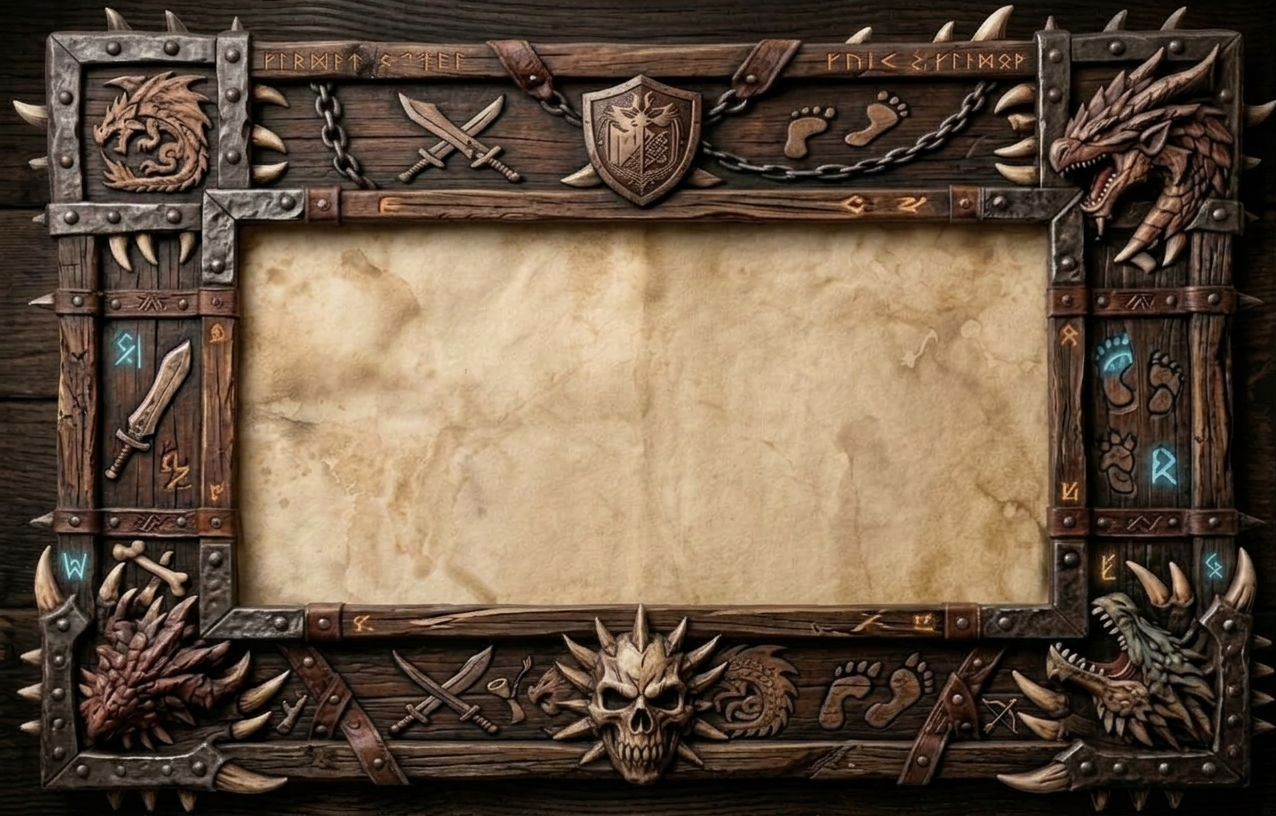
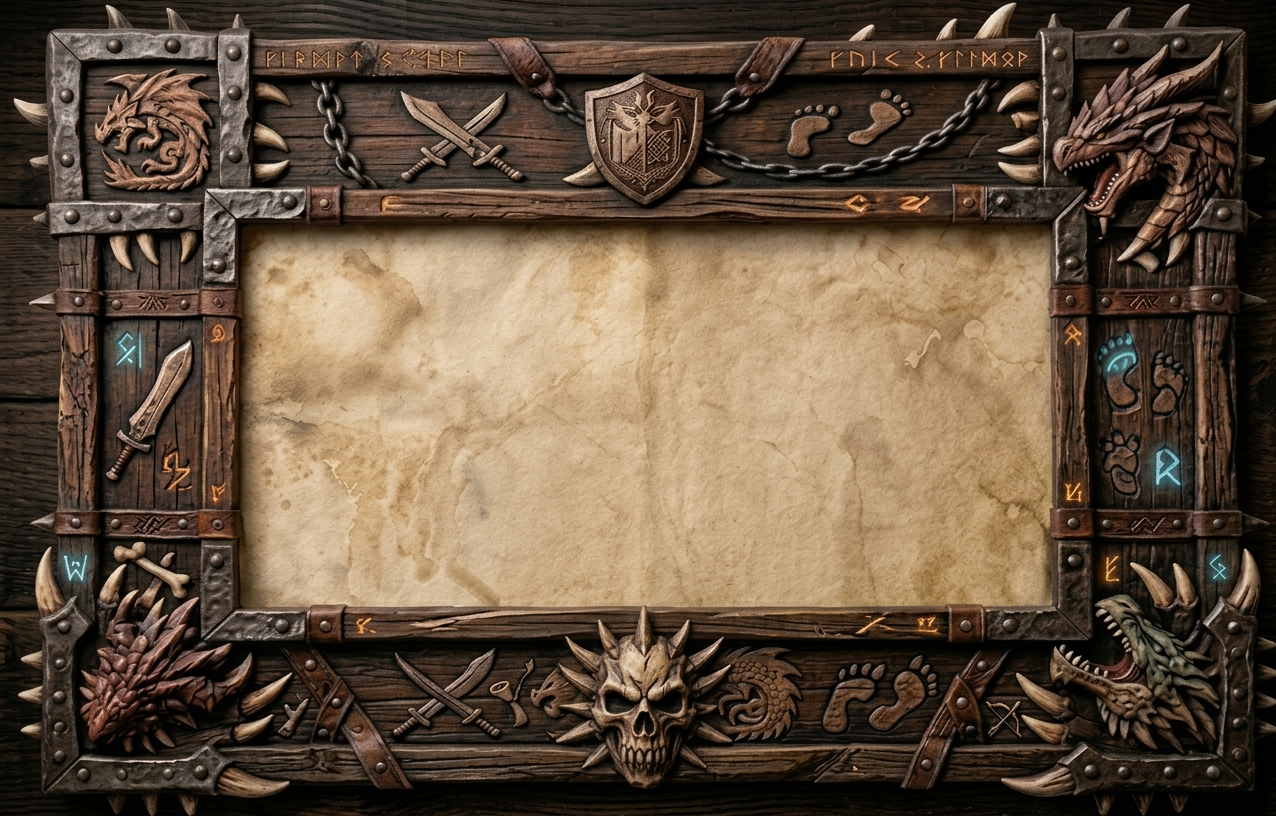
ydufyg

diff --git a/Web/index.html b/Web/index.html
@@ -44,14 +44,13 @@
   <main id="contenido">
     <!------------------------- PANEL-PRINCIAPL ------------------------->
     <section class="paper-panel hero panel">
-      <p class="eyebrow">Archivo central del Gremio</p>
       <div class="hero-logo" aria-hidden="true">
         <img src="../Media/Imagenes/Logo.png" alt="Logo del Gremio de Cazadores"> </img>
       </div>
       <h1>MONSTER HUNTER CÓDICE</h1>
       <p class="lead"><em>Crónicas, bestias y secretos del mundo conocido.</em></p>
-      <p>Todo monstruo deja una huella. Todo cazador, una historia. Este archivo reúne los conocimientos de quienes
-        exploran territorios salvajes y estudian las criaturas que los habitan.</p>
+      <p class="centro">Todo monstruo deja una huella. Todo cazador, una historia. Este archivo reúne los conocimientos de quienes
+        exploran territorios salvajes y estudian las criaturas que los habitan.</p><br>
       <a class="button-link" href="Paginas/bestiario.html">Abrir el bestiario</a>
     </section>
     <!------------------------- LIBRERIA ------------------------->

diff --git a/Diseño/Estilos/estilos.css b/Diseño/Estilos/estilos.css
@@ -84,14 +84,6 @@ main,
   text-align: center;
 }
 
-.eyebrow {
-  margin: 0 0 .45rem;
-  color: #d7bd8b;
-  font-size: .76rem;
-  letter-spacing: .2em;
-  text-transform: uppercase;
-}
-
 .site-title {
   margin: 0;
   color: #f5e7c7;
@@ -158,8 +150,9 @@ main {
 .panel {
     background-image: url('../../Media/Imagenes/Fondo-Inicio-cuadro.jpg');
     background-repeat: no-repeat;
-    background-size: 100% 130%;
+    background-size: contain;
     background-position: center;
+    background-size: 100% 120%;
 }
 
 .paper-panel::before {
@@ -195,8 +188,9 @@ h3 {
 }
 
 h1 {
-  margin-top: 0;
+  margin-top: 50px;
   font-size: clamp(1.8rem, 4vw, 2.7rem);
+  color: #271e13;
 }
 
 h2 {
@@ -539,4 +533,10 @@ hr {
   font-size: .9rem;
   color: black;
   margin: 0;
+}
+
+.centro {
+  text-align: center;
+  margin: 0 auto;
+  width: 60%;
 }
